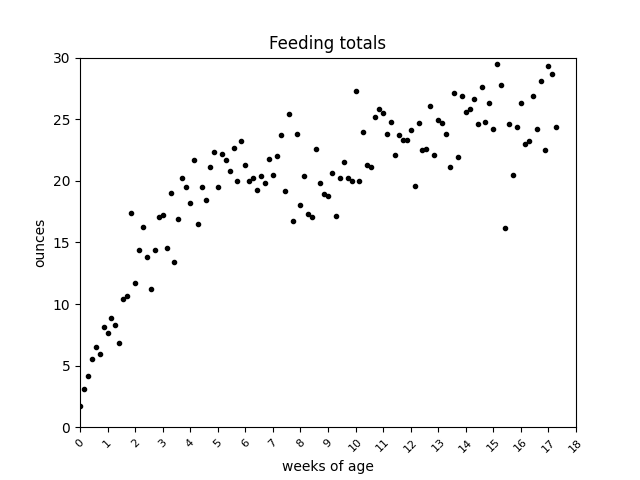
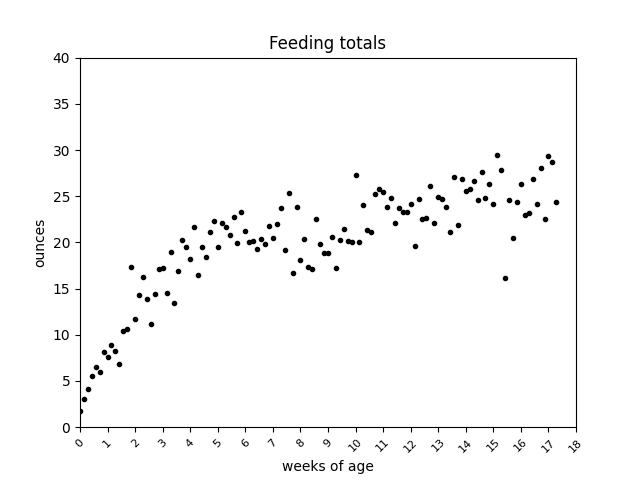
added weekly sleep schedule heat map

diff --git a/datita.py b/datita.py
@@ -289,6 +289,8 @@ def week_ticks(data, label_type):
     plt.gca().set_xticklabels(week_tick_labels)
     plt.gca().set_xlim([week_ticks[0], week_ticks[-1]])
 
+    return week_ticks, week_tick_labels
+
 
 def time_ticks(axis):
     time_ticks = [0, 4, 8, 12, 16, 20, 24]
@@ -428,14 +430,33 @@ def plot_sleep_24(data_sleep_24):
     # sleep schedule with day and night distinguished
     plt.figure()
     plt.title('Sleep schedule')
-    week_ticks(data_sleep_24, label_type)
+    [week_dates, week_names] = week_ticks(data_sleep_24, 'week')
     time_ticks('y')
-    for i in range(len(data_sleep_24)): # 
+    for i in range(len(data_sleep_24)):
         x = data_sleep_24[i][0].date()
         y1 = parse_time(data_sleep_24[i][0])
         y2 = parse_time(data_sleep_24[i][1])
         plt.plot([x, x], [y1, y2], 'k-', linewidth=4)
     plt.savefig('sleep_schedule.png')
+
+
+    # heat map of sleep schedule by week
+    plt.figure()
+    plt.title('Sleep schedule')
+    time_ticks('y')
+    plt.xlabel('weeks')
+
+    j = 0
+    for i in range(len(data_sleep_24)):
+        date = data_sleep_24[i][0].date()
+        if date >= week_dates[j+1]:
+            j = j + 1
+        x = j
+        y1 = parse_time(data_sleep_24[i][0])
+        y2 = parse_time(data_sleep_24[i][1])
+        plt.plot([x, x], [y1, y2], 'k-', linewidth=20, alpha=0.2)
+
+    plt.savefig('sleep_schedule_heat.png')
 
 
     # total sleep in 24 hours
@@ -534,7 +555,7 @@ def plot_feeding(data_feeding):
     # feeding totals
     plt.figure()
     plt.title('Feeding totals')
-    plt.ylim([0, 30.])
+    plt.ylim([0, 40.])
     plt.ylabel('ounces')
     week_ticks(data_feeding, label_type)
     plt.plot(feeding_dates, feeding_totals, 'k.')
